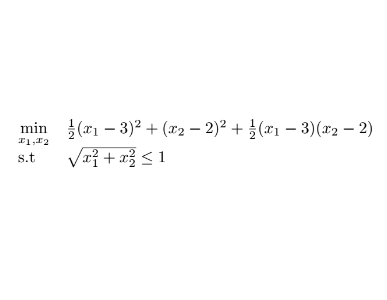
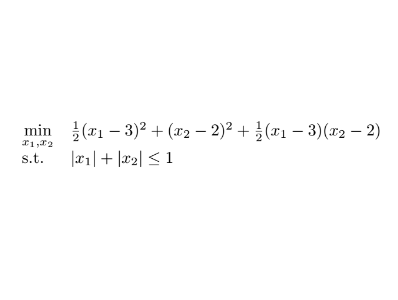
update contour_plot.py to use L1 norm constraint instead, equal axis scaling + print out constrained/unconstrained solutions, update quad_norm.png and contours.png

Changed region(s): [[0.155, 0.39, 0.9612, 0.57], [0.031, 0.42, 0.155, 0.54]]

diff --git a/contour_plot.py b/contour_plot.py
@@ -4,7 +4,8 @@ Level sets of the objective, the unconstrained solution, and the constrained
 solution are plotted using matplotlib. Solution obtained using trust-constr.
 
 Function minimized is a convex bivariate quadratic function. The constraint is
-an L2 norm constraint requiring the solution to be at most unit norm.
+an L1 norm constraint requiring the solution to be at most unit norm, although
+the threshold value can be adjusted by the user.
 
 Script should be run from the terminal. Pass --help for usage.
 
@@ -16,9 +17,9 @@ import argparse
 from functools import partial
 import matplotlib
 import matplotlib.pyplot as plt
-from matplotlib.patches import Circle
+from matplotlib.patches import Circle, Polygon
 import numpy as np
-from scipy.optimize import NonlinearConstraint, minimize
+from scipy.optimize import LinearConstraint, NonlinearConstraint, minimize
 import sys
 
 
@@ -118,6 +119,7 @@ def exec_main(
     # get separated x1, x2 + convert to numpy array
     x1, x2 = min_point
     min_point = np.array(min_point)
+    print(f"unconstrained solution: {min_point}")
     # function, gradient, and hessian
     quad_func = lambda x: (
         0.5 * (x[0] - x1) ** 2 + (x[1] - x2) ** 2 +
@@ -132,16 +134,19 @@ def exec_main(
         )
     )
     quad_hess = lambda x: np.array([[1, 0.5], [0.5, 2]])
-    # L2 norm constraint on solution
-    norm_constraint = NonlinearConstraint(
-        lambda x: np.power(x, 2).sum(), -(threshold ** 2), threshold ** 2,
-        jac=lambda x: 2 * x, hess=lambda x, v: 2 * v * np.eye(2)
-    )
+    # L1 norm constraint on solution, rewritten as linear constraints
+    norm_constraint = [
+        LinearConstraint(np.ones(2), -np.inf, threshold),
+        LinearConstraint(-np.ones(2), -np.inf, threshold),
+        LinearConstraint([[-1, 0], [0, 1]], -np.inf, threshold),
+        LinearConstraint([[1, 0], [0, -1]], -np.inf, threshold)
+    ]
     # compute solution to constrained problem
     x_hat = minimize(
         quad_func, np.zeros(2), method="trust-constr", jac=quad_grad,
         hess=quad_hess, constraints=norm_constraint
     ).x
+    print(f"constrained solution:   {x_hat}")
     # x, y coordinate grids to plot objective contours over
     x_grid, y_grid = np.meshgrid(
         np.linspace(-1.2 * threshold, 2 * x1, num=n_samples),
@@ -162,7 +167,10 @@ def exec_main(
     fig, ax = plt.subplots(figsize=(fwidth, fheight))
     # plot norm constraint (plot above contours)
     ax.add_patch(
-        Circle((0, 0), radius=threshold, alpha=0.4, color="blue", zorder=10)
+        Polygon(
+            np.array([[-1, 0], [0, 1], [1, 0], [0, -1]]),
+            alpha=0.4, color="blue", zorder=10
+        )
     )
     # plot the optimal unconstrained and constrained points (plot on top)
     ax.scatter(x1, x2, marker="d", c="orange", zorder=20)
@@ -175,11 +183,13 @@ def exec_main(
     levels = np.linspace(
         0, quad_func(x_hat), num=(1 + ax.get_xticks().size) // 2
     )
-    # plot objective contours up to intersection
+    # plot objective contours up to intersection and equalize axes scaling
     ax.contour(x_grid, y_grid, f_vals, levels=levels)
+    ax.set_aspect("equal")
     # make tight and save
     fig.tight_layout()
     fig.savefig(file_name)
+    print(f"plot saved to {file_name}")
 
 
 def main(args=None):
